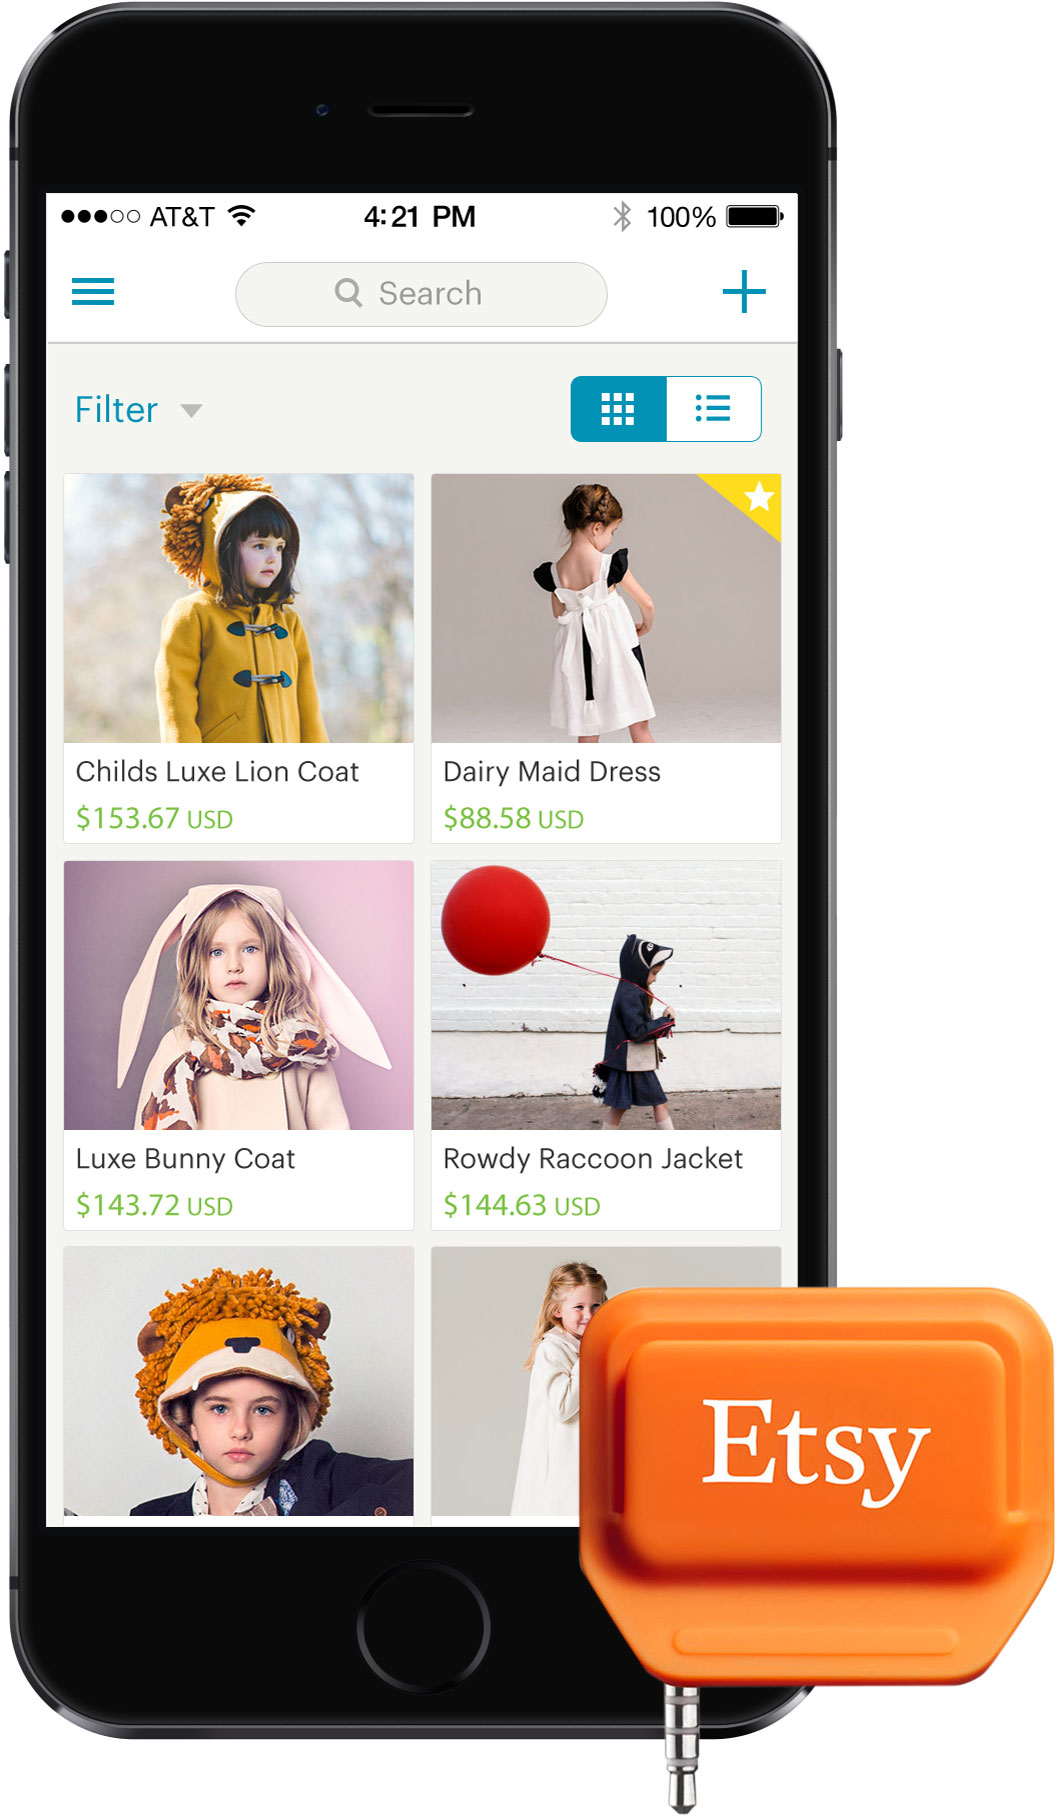
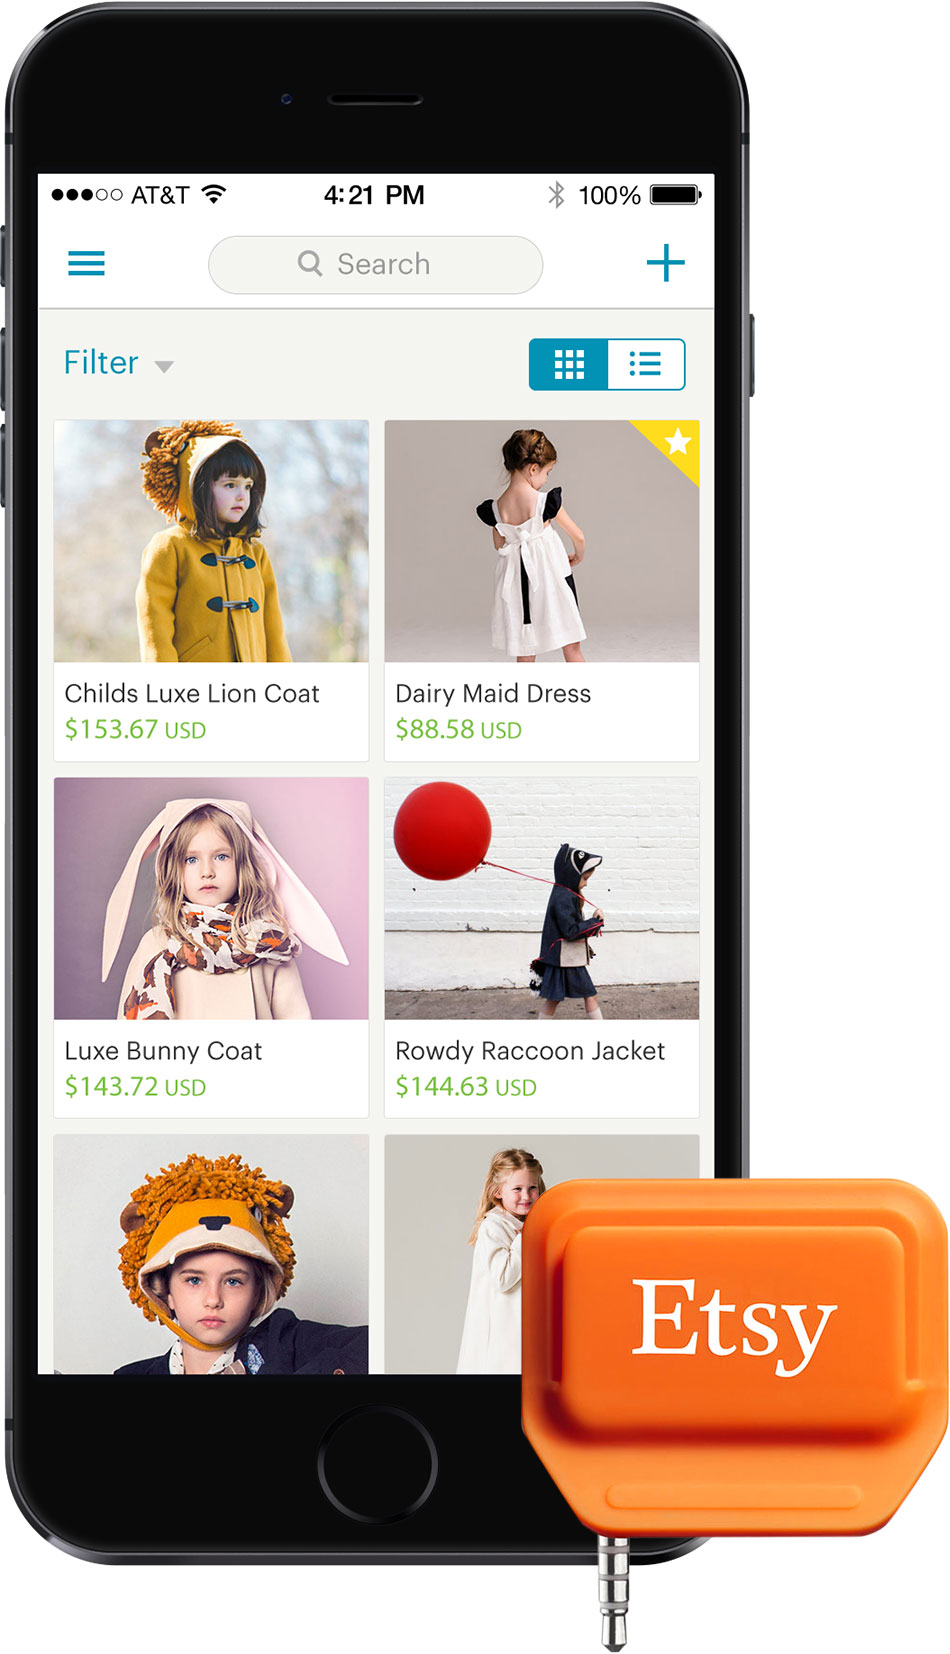
Adjusting the iPhone image and the associated CSS.

diff --git a/app/assets/stylesheets/mimic.css.scss b/app/assets/stylesheets/mimic.css.scss
@@ -119,8 +119,8 @@ img {
   }
 
   .soe_image_container {
-    width: 86%;
-    margin-left: 7%;
+    width: 80%;
+    margin-left: 10%;
   }
 }
 
@@ -203,9 +203,9 @@ footer {
       width: auto;
 
       img {
-        padding-left: 13%;
+        padding-left: 17%;
         margin: 16px auto 0 auto;
-        width: 526px;
+        width: 475px;
       }
     }
   }
@@ -220,7 +220,7 @@ footer {
     .soe_image_container {
 
       img {
-        padding-left: 18%;
+        padding-left: 24%;
       }
     }
   }
@@ -252,9 +252,7 @@ footer {
       margin-top: 8px;
 
       img {
-        padding-left: 220px;
-        margin: 16px auto 8px auto;
-        width: 526px;
+        padding-left: 236px;
       }
     }
   }
